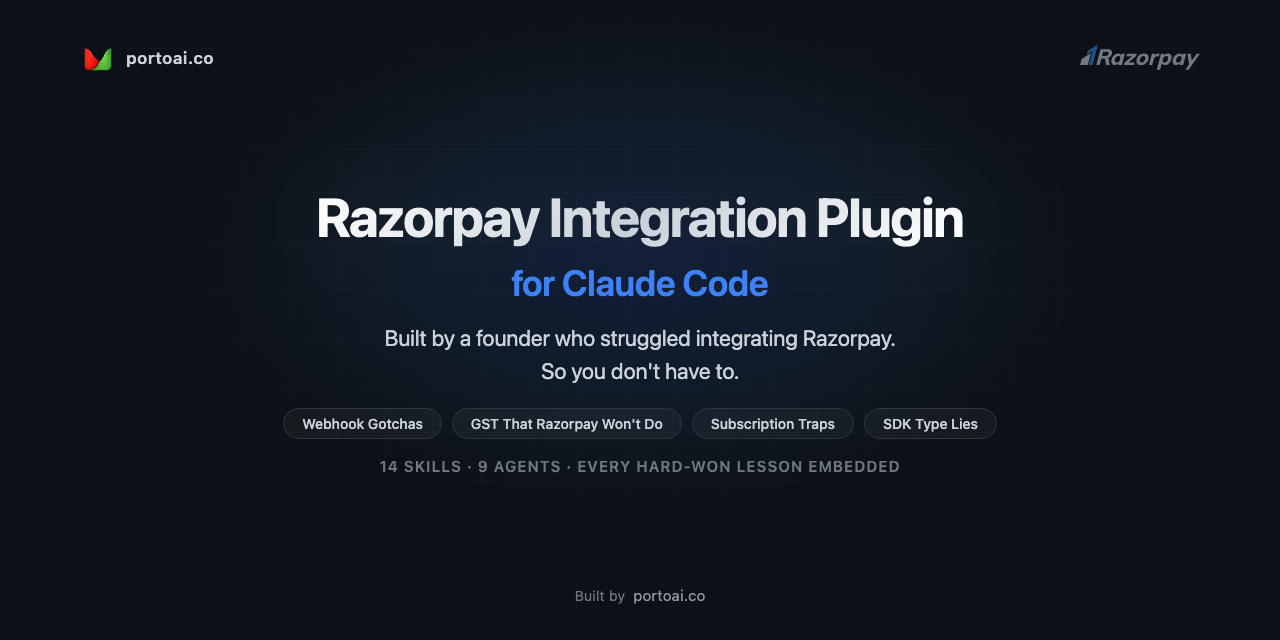
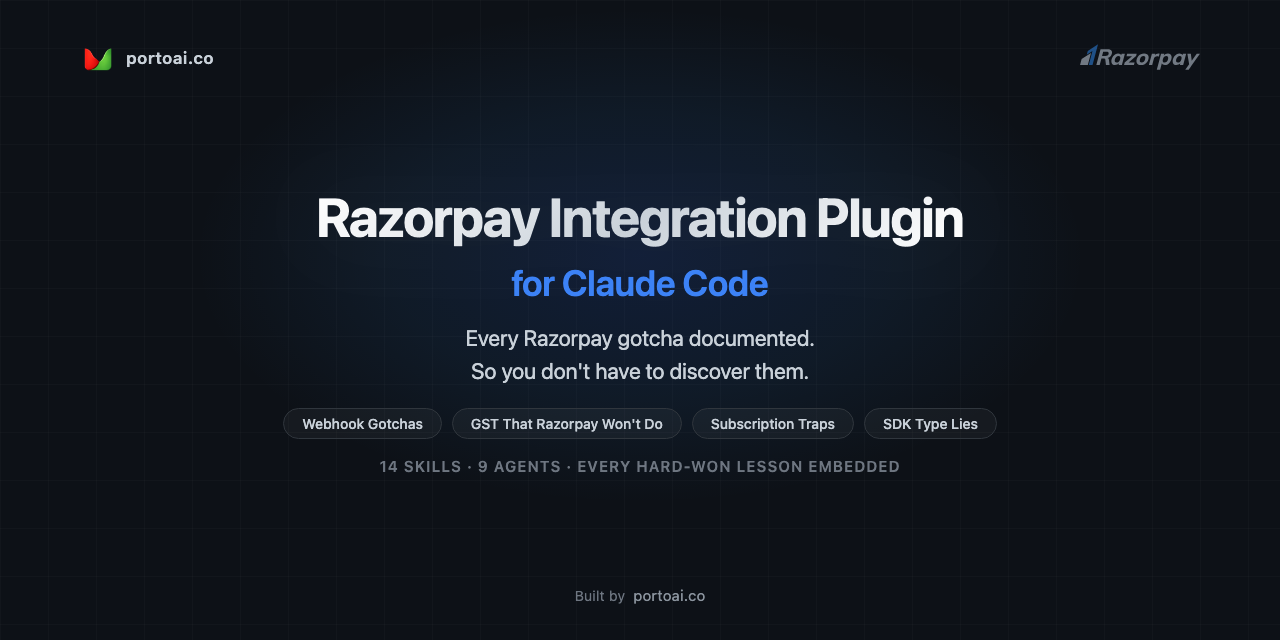
fix: Remove personal project details from open-source plugin
Replaced "extracted from a real SaaS handling thousands of paying
subscribers" and "cost us weeks" with generic community-friendly
language. Updated social preview to remove founder backstory.
portoai.co branding kept as intended.

Changed region(s): [[0.2812, 0.5, 0.6875, 0.5938]]

diff --git a/assets/social-preview.html b/assets/social-preview.html
@@ -194,7 +194,7 @@
     <div class="center">
       <div class="title">Razorpay Integration Plugin</div>
       <div class="subtitle">for Claude Code</div>
-      <div class="hook">Built by a founder who struggled integrating Razorpay.<br>So you don't have to.</div>
+      <div class="hook">Every Razorpay gotcha documented.<br>So you don't have to discover them.</div>
       <div class="pills">
         <span class="pill">Webhook Gotchas</span>
         <span class="pill">GST That Razorpay Won't Do</span>

diff --git a/README.md b/README.md
@@ -4,7 +4,7 @@
 
 **The only Razorpay plugin that knows what the docs don't tell you.**
 
-Production-grade billing patterns extracted from a real SaaS handling thousands of paying subscribers.
+Production-grade billing patterns for Indian SaaS — every Razorpay gotcha documented so you don't have to discover them.
 
 [![MIT License](https://img.shields.io/badge/license-MIT-blue.svg)](LICENSE)
 [![Skills](https://img.shields.io/badge/skills-14-green.svg)](#skills)
@@ -17,7 +17,7 @@ Production-grade billing patterns extracted from a real SaaS handling thousands 
 
 ---
 
-> **Why this exists:** Razorpay's docs look simple. Then you hit webhook race conditions, signature mismatches on parsed JSON, TypeScript SDK type errors, GST invoicing that subscriptions don't handle, and plan changes that cause downtime. This plugin embeds all those hard-won lessons directly into Claude Code so you never have to discover them yourself.
+> **Why this exists:** Razorpay's docs look simple. Then you hit webhook race conditions, signature mismatches on parsed JSON, TypeScript SDK type errors, GST invoicing that subscriptions don't handle, and plan changes that cause downtime. This plugin embeds all those lessons directly into Claude Code so you don't have to discover them yourself.
 
 ---
 
@@ -115,7 +115,7 @@ Agents are autonomous workers that Claude spawns. They detect your stack, make d
 
 ## Things Razorpay Won't Tell You
 
-> These are the gotchas that cost us weeks. Now they're in the plugin so they cost you zero.
+> These are the gotchas every Razorpay integration hits. Now they're in the plugin so they cost you zero.
 
 ### Subscriptions don't handle GST
 
